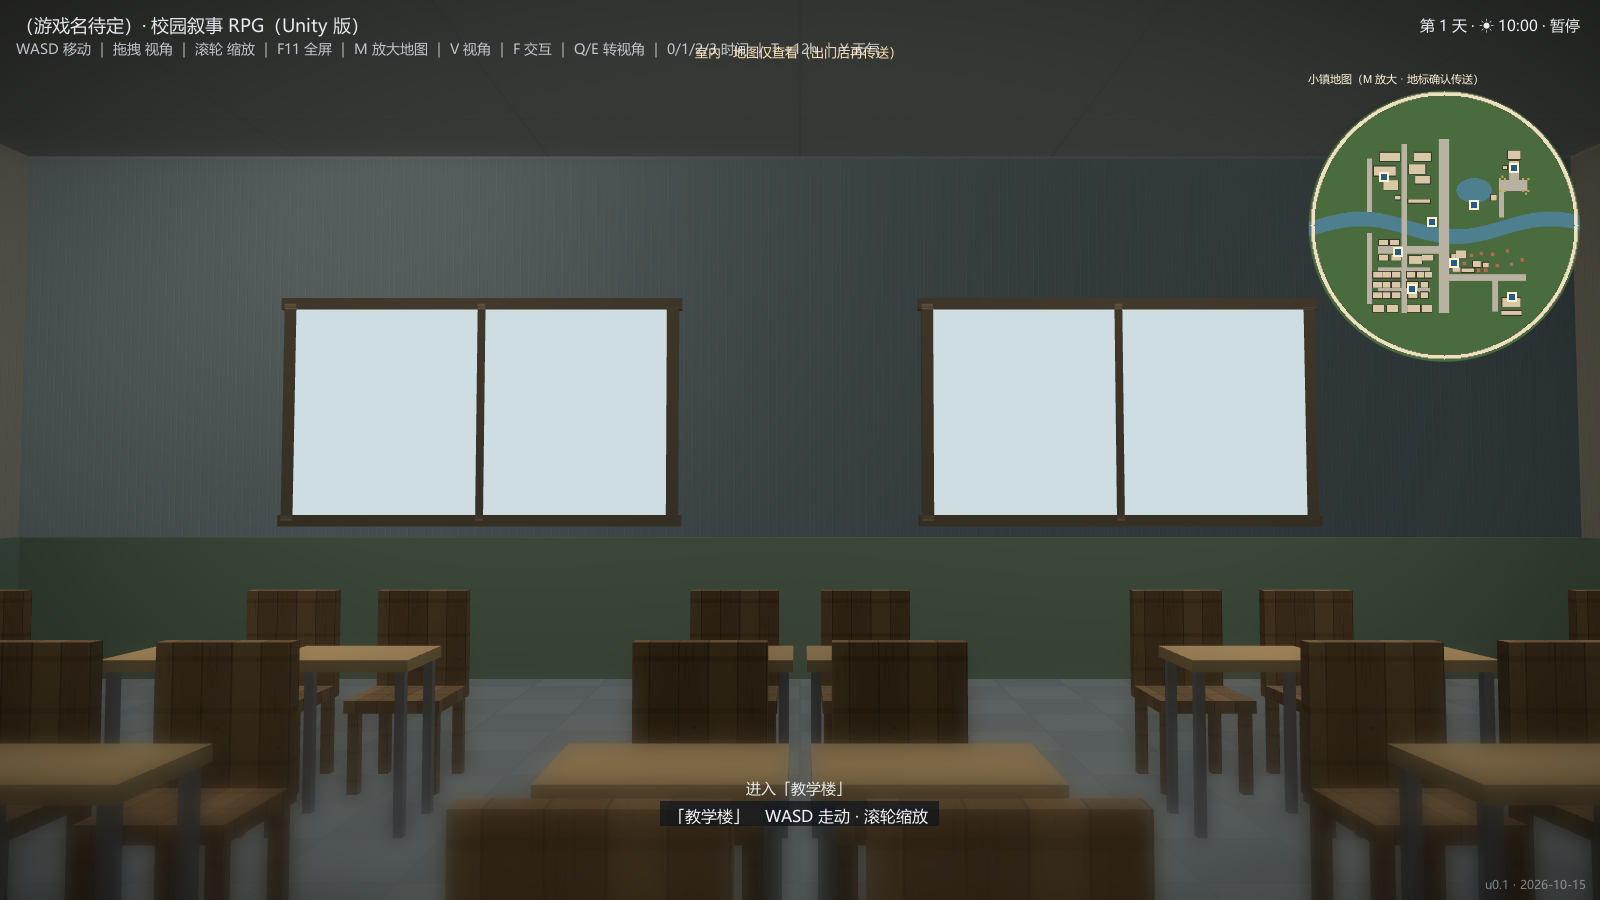
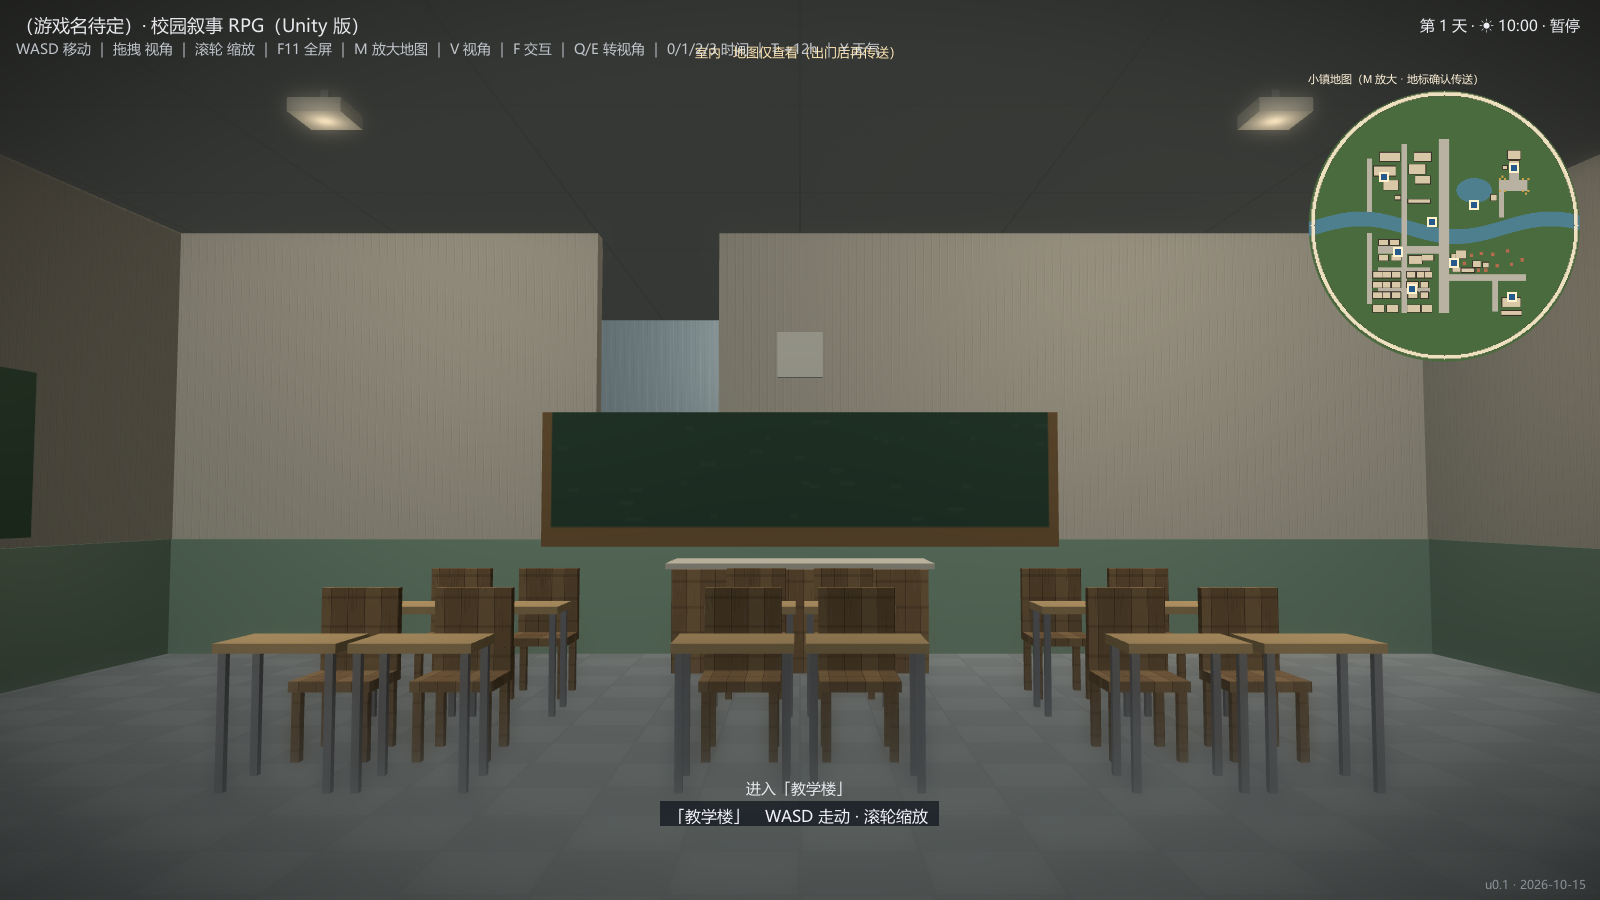
fix(室内): 黑板/讲台进教室并避门 + 12 座反向 + 沙发朝向 + 踢脚线防闪 + 挂画让窗
- zFront 改为走廊墙教室侧表面：黑板/讲台/挂钟进教室（原在墙体内/门外）
- boardShift 参数：教室 A/B 黑板整体偏移避开教室门
- 教室 3 列×2 排 12 座，椅子 ry=180 面向黑板
- 家沙发 ry=270 面向电视，茶几/地毯/单人沙发联动
- 踢脚线内移 0.02m 消除与墙纸共面闪烁
- 主卧挂画移床头上方、书房挂画移东墙，不再压窗

diff --git a/Game/Assets/Scripts/InteriorBuilder.cs b/Game/Assets/Scripts/InteriorBuilder.cs
@@ -458,10 +458,10 @@ public static class InteriorBuilder
         WallDeco(p, 2.09f, 9.86f, ox - 2.11f, 0.02f, W, 1, 0.05f, wallT, 1.7f);
         WallDeco(p, 2.09f, 9.86f, ox + 3.31f, 0.02f, W, 1, 0.05f, wallT, 1.7f);
         WallDeco(p, 2.09f, 9.86f, ox + 3.49f, 0.02f, W, 1, 0.05f, wallA, 1.7f);
-        Skirt(p, ox - 14.86f, -9.86f, ox + 14.86f, -9.86f, 0.02f);
-        Skirt(p, ox - 14.86f, 9.86f, ox + 14.86f, 9.86f, 0.02f);
-        Skirt(p, ox - 14.86f, -9.86f, ox - 14.86f, 9.86f, 0.02f);
-        Skirt(p, ox + 14.86f, -9.86f, ox + 14.86f, 9.86f, 0.02f);
+        Skirt(p, ox - 14.86f, -9.84f, ox + 14.86f, -9.84f, 0.02f);
+        Skirt(p, ox - 14.86f, 9.84f, ox + 14.86f, 9.84f, 0.02f);
+        Skirt(p, ox - 14.84f, -9.84f, ox - 14.84f, 9.84f, 0.02f);
+        Skirt(p, ox + 14.84f, -9.84f, ox + 14.84f, 9.84f, 0.02f);
 
         // ── 装饰 ──
         Picture(p, new Vector3(ox - 14.83f, 2.1f, -6.6f), 1.2f, 0.9f, 90f);
@@ -469,20 +469,20 @@ public static class InteriorBuilder
         WallClock(p, new Vector3(ox - 14.83f, 3.1f, -6.6f), 90f);
         Plant(p, new Vector3(ox - 14.2f, 0.02f, -9.1f), 1.1f);
         Plant(p, new Vector3(ox + 3.0f, 0.02f, -7.4f), 1.0f);
-        Picture(p, new Vector3(ox - 11.4f, 2.2f, 9.7f), 1.3f, 0.9f, 180f);
+        Picture(p, new Vector3(ox - 14.78f, 2.6f, 6.0f), 1.3f, 0.9f, 90f);
         Curtain(p, ox - 11.4f, 1.25f, 9.55f, 2.4f, 1.7f, cloth);
-        Picture(p, new Vector3(ox - 3.6f, 2.2f, 9.7f), 1.0f, 0.75f, 180f);
+        Picture(p, new Vector3(ox - 2.35f, 2.2f, 6.0f), 1.0f, 0.75f, 270f);
 
         // ════════ 家具 ════════
         // 客厅（x -15..-4, z -10..2）
-        Rug(p, new Vector3(ox - 9.2f, 0.06f, -4.0f), 3.2f, 3.2f, fabric2);
+        Rug(p, new Vector3(ox - 12.4f, 0.06f, -4.0f), 3.4f, 2.6f, fabric2);
         Part(p, new Vector3(ox - 14.5f, 1.15f, -4.0f), new Vector3(0.12f, 1.5f, 2.6f), screen, 1f);
         Part(p, new Vector3(ox - 14.5f, 0.36f, -4.0f), new Vector3(0.5f, 0.72f, 2.8f), woodDark, 1f);
-        Sofa(p, new Vector3(ox - 9.2f, 0f, -4.0f), 3.2f, 0f, fabric);
-        Part(p, new Vector3(ox - 11.5f, 0.24f, -4.0f), new Vector3(1.3f, 0.46f, 0.7f), woodDark, 1f);
-        Part(p, new Vector3(ox - 9.2f, 0.42f, -1.3f), new Vector3(1.5f, 0.85f, 0.95f), fabric, 1.2f);
+        Sofa(p, new Vector3(ox - 11.3f, 0f, -4.0f), 3.2f, 270f, fabric);
+        Part(p, new Vector3(ox - 12.9f, 0.24f, -4.0f), new Vector3(0.7f, 0.46f, 1.3f), woodDark, 1f);
+        Part(p, new Vector3(ox - 9.0f, 0.42f, -4.0f), new Vector3(0.95f, 0.85f, 1.5f), fabric, 1.2f);
         Part(p, new Vector3(ox - 8.6f, 1.0f, 1.62f), new Vector3(2.4f, 2.0f, 0.4f), woodDark, 1f);
-        Lamp(p, new Vector3(ox - 9.2f, 3.55f, -4.0f), 11f, 1.3f);
+        Lamp(p, new Vector3(ox - 11.3f, 3.55f, -4.0f), 11f, 1.3f);
         Part(p, new Vector3(ox - 14.3f, 1.1f, -1.2f), new Vector3(0.07f, 2.0f, 0.07f), metal, 1f);
         Part(p, new Vector3(ox - 14.3f, 2.15f, -1.2f), new Vector3(0.36f, 0.3f, 0.36f), C("#fff2d6"), 1f);
 
@@ -560,8 +560,8 @@ public static class InteriorBuilder
         // ── 家具碰撞 ──
         Reg(it, ox - 14.5f, -4.0f, 0.5f, 2.8f);
         Reg(it, ox - 11.5f, -4.0f, 1.3f, 0.7f);
-        Reg(it, ox - 9.2f, -4.0f, 1.0f, 3.3f);
-        Reg(it, ox - 9.2f, -1.3f, 1.5f, 0.95f);
+        Reg(it, ox - 11.3f, -4.0f, 1.0f, 3.3f);
+        Reg(it, ox - 9.0f, -4.0f, 0.95f, 1.5f);
         Reg(it, ox - 8.6f, 1.62f, 2.4f, 0.4f);
         Reg(it, ox + 2.9f, -9.0f, 0.45f, 1.6f);
         Reg(it, ox - 2.6f, -9.25f, 0.9f, 0.4f);
@@ -688,8 +688,8 @@ public static class InteriorBuilder
             WallDeco(p, -14.86f, ZC0 + 0.09f, ox + xx - 0.09f, 0.02f, W, 1, 0.05f, wallB, 1.7f);
             WallDeco(p, -14.86f, ZC0 + 0.09f, ox + xx + 0.09f, 0.02f, W, 1, 0.05f, wallB, 1.7f);
         }
-        Skirt(p, ox - 27.86f, -14.86f, ox + 27.86f, -14.86f, 0.02f);
-        Skirt(p, ox - 27.86f, 14.86f, ox + 27.86f, 14.86f, 0.02f);
+        Skirt(p, ox - 27.86f, -14.84f, ox + 27.86f, -14.84f, 0.02f);
+        Skirt(p, ox - 27.86f, 14.84f, ox + 27.86f, 14.84f, 0.02f);
 
         // ── 门厅 ──
         Part(p, new Vector3(ox + 4.5f, 0.6f, 12.8f), new Vector3(3.0f, 1.2f, 0.7f), woodDark, 1f);
@@ -718,10 +718,10 @@ public static class InteriorBuilder
         Lamp(p, new Vector3(ox + 22f, 3.9f, 8f), 10f, 1.05f);
 
         // ── 教室 ──
-        Classroom(p, it, ox - 21.4f, 12.3f, board, deskTop, wood, green, ox - 19.2f, ox - 18.0f, 5);
-        Classroom(p, it, ox - 9.0f, 12.3f, board, deskTop, wood, green, ox - 11.0f, ox - 9.8f, 5);
-        Classroom(p, it, ox + 3.6f, 12.3f, board, deskTop, wood, green, ox - 0.4f, ox + 0.8f, 5);
-        Classroom(p, it, ox + 18.75f, 17.3f, board, deskTop, wood, green, ox + 14.0f, ox + 15.2f, 6);
+        Classroom(p, it, ox - 21.4f, 12.3f, board, deskTop, wood, green, ox - 19.2f, ox - 18.0f, -0.6f);
+        Classroom(p, it, ox - 9.0f, 12.3f, board, deskTop, wood, green, ox - 11.0f, ox - 9.8f, 2.5f);
+        Classroom(p, it, ox + 3.6f, 12.3f, board, deskTop, wood, green, ox - 0.4f, ox + 0.8f);
+        Classroom(p, it, ox + 18.75f, 17.3f, board, deskTop, wood, green, ox + 14.0f, ox + 15.2f);
 
         // ── 走廊灯 ──
         for (int i = -3; i <= 3; i++)
@@ -743,26 +743,27 @@ public static class InteriorBuilder
     // 一间教室：黑板在走廊侧内墙（避开北窗眩光），40/60 座
     static void Classroom(Transform p, Interior it, float cx, float w, Material board,
                           Material desk, Material wood, Material green,
-                          float doorA = 0f, float doorB = 0f, int groups = 5)
+                          float doorA = 0f, float doorB = 0f, float boardShift = 0f)
     {
-        float zFront = -2.5f - 0.10f;
+        float zFront = -2.5f - 0.13f;   // 走廊墙教室侧表面（墙半厚 0.12 + 0.01）
         float zBack = -14.86f;
         float cz = (zFront + zBack) * 0.5f;
+        float bx = cx + boardShift;     // 黑板/讲台/挂钟整体偏移，避开教室门
 
-        Part(p, new Vector3(cx, 1.7f, zFront + 0.07f), new Vector3(5.0f, 1.3f, 0.07f), board, 5.0f);
+        Part(p, new Vector3(bx, 1.7f, zFront - 0.07f), new Vector3(5.0f, 1.3f, 0.07f), board, 5.0f);
         var skirt = C("#8fae98");
         float sx1 = cx - w * 0.5f + 0.05f, sx2 = cx + w * 0.5f - 0.05f;
-        Panel(p, sx1, zFront - 0.02f, sx2, zFront - 0.02f, 0.02f, 1.1f, skirt);
+        Panel(p, sx1, zFront - 0.04f, sx2, zFront - 0.04f, 0.02f, 1.1f, skirt);
         Panel(p, sx1, zBack + 0.03f, sx2, zBack + 0.03f, 0.02f, 1.1f, skirt);
         Panel(p, cx - w * 0.5f + 0.03f, zBack + 0.05f, cx - w * 0.5f + 0.03f, zFront - 0.05f, 0.02f, 1.1f, skirt);
         Panel(p, cx + w * 0.5f - 0.03f, zBack + 0.05f, cx + w * 0.5f - 0.03f, zFront - 0.05f, 0.02f, 1.1f, skirt);
-        WallClock(p, new Vector3(cx, 2.9f, zFront + 0.18f), 0f);
-        Part(p, new Vector3(cx, 0.45f, zFront + 0.85f), new Vector3(2.2f, 0.9f, 0.8f), wood, 1f);
-        Part(p, new Vector3(cx, 0.93f, zFront + 0.85f), new Vector3(2.3f, 0.05f, 0.86f), C("#d9d3c6"), 1f);
+        WallClock(p, new Vector3(bx, 2.9f, zFront - 0.18f), 0f);
+        Part(p, new Vector3(bx, 0.45f, zFront - 0.85f), new Vector3(2.2f, 0.9f, 0.8f), wood, 1f);
+        Part(p, new Vector3(bx, 0.93f, zFront - 0.85f), new Vector3(2.3f, 0.05f, 0.86f), C("#d9d3c6"), 1f);
 
-        const int rows = 4;
-        int gcount = Mathf.Max(1, groups);
-        float colGap = gcount > 1 ? Mathf.Min(2.3f, (w - 2.4f) / (gcount - 1)) : 0f;
+        const int rows = 2;
+        int gcount = 3;   // 3 列 × 2 排 × 2 人 = 12 座
+        float colGap = Mathf.Min(2.3f, (w - 2.4f) / (gcount - 1));
         float rowGap = 1.9f;
         for (int r = 0; r < rows; r++)
             for (int g = 0; g < gcount; g++)
@@ -777,9 +778,9 @@ public static class InteriorBuilder
                         Part(p, new Vector3(x + (lg % 2 == 0 ? -0.27f : 0.27f), 0.37f,
                                             z + (lg < 2 ? -0.17f : 0.17f)),
                              new Vector3(0.04f, 0.74f, 0.04f), C("#8d8d94"), 0.5f);
-                    Chair(p, it, new Vector3(x, 0f, z - 0.66f), 0f, wood, false);
+                    Chair(p, it, new Vector3(x, 0f, z + 0.66f), 180f, wood, false);
                 }
-                it.Solids.Add(new Solid(gx - 0.68f, z - 1.06f, gx + 0.68f, z - 0.21f));
+                it.Solids.Add(new Solid(gx - 0.68f, z - 0.21f, gx + 0.68f, z + 1.06f));
             }
 
         Part(p, new Vector3(cx - w * 0.5f + 0.08f, 1.85f, cz + 2.0f), new Vector3(0.05f, 1.3f, 4.2f), green, 4.2f);

diff --git a/docs/37-室内重建-单层开放.md b/docs/37-室内重建-单层开放.md
@@ -31,3 +31,15 @@
 ## 六、遗留
 - 家具是纯几何，无交互物件；室内灯在白天偏暗（无窗光）——下一轮可加"窗光板"（Unlit 亮面模拟天光）。
 - 教室黑板无板书内容；可程序化加粉笔字纹理。
+
+## 七、作者验收修正（同日追加）
+
+作者反馈五项，逐项修复：
+1. **教室黑板在墙里、讲台在门外**：zFront 原取 `-2.5-0.10` 在墙体内；改为教室侧表面 `-2.5-0.13`，黑板/讲台/挂钟统一 `zFront-…` 进教室。
+2. **黑板被教室门挡住**：教室 A/B 的门与 5m 黑板重叠 → 新增 `boardShift` 参数（A -0.6m / B +2.5m），黑板+讲台+挂钟整体偏移避开。
+3. **座位 12 个且方向反了**：改 3 列×2 排×2 人 = 12 座；椅子放桌子南侧、ry=180（靠背朝南、人面向黑板）。
+4. **沙发朝向**：沙发改 3.2m 长度沿 z、ry=270（背东面西朝电视），茶几/地毯/单人沙发联动重摆。
+5. **四周光闪烁**：踢脚线与墙纸共面 z-fighting → 踢脚线整体内移 0.02m。
+6. **挂画与窗重合**：主卧挂画移到床头上方西墙（y 2.6，越过床头板），书房挂画移到东隔墙。
+
+验证：校验 home 54 / school 55 碰撞盒 0 问题；实拍黑板+12 座（[interior-v2-class.png](img/interior-v2-class.png)）、客厅沙发朝向（[interior-v2-living.png](img/interior-v2-living.png)）。
